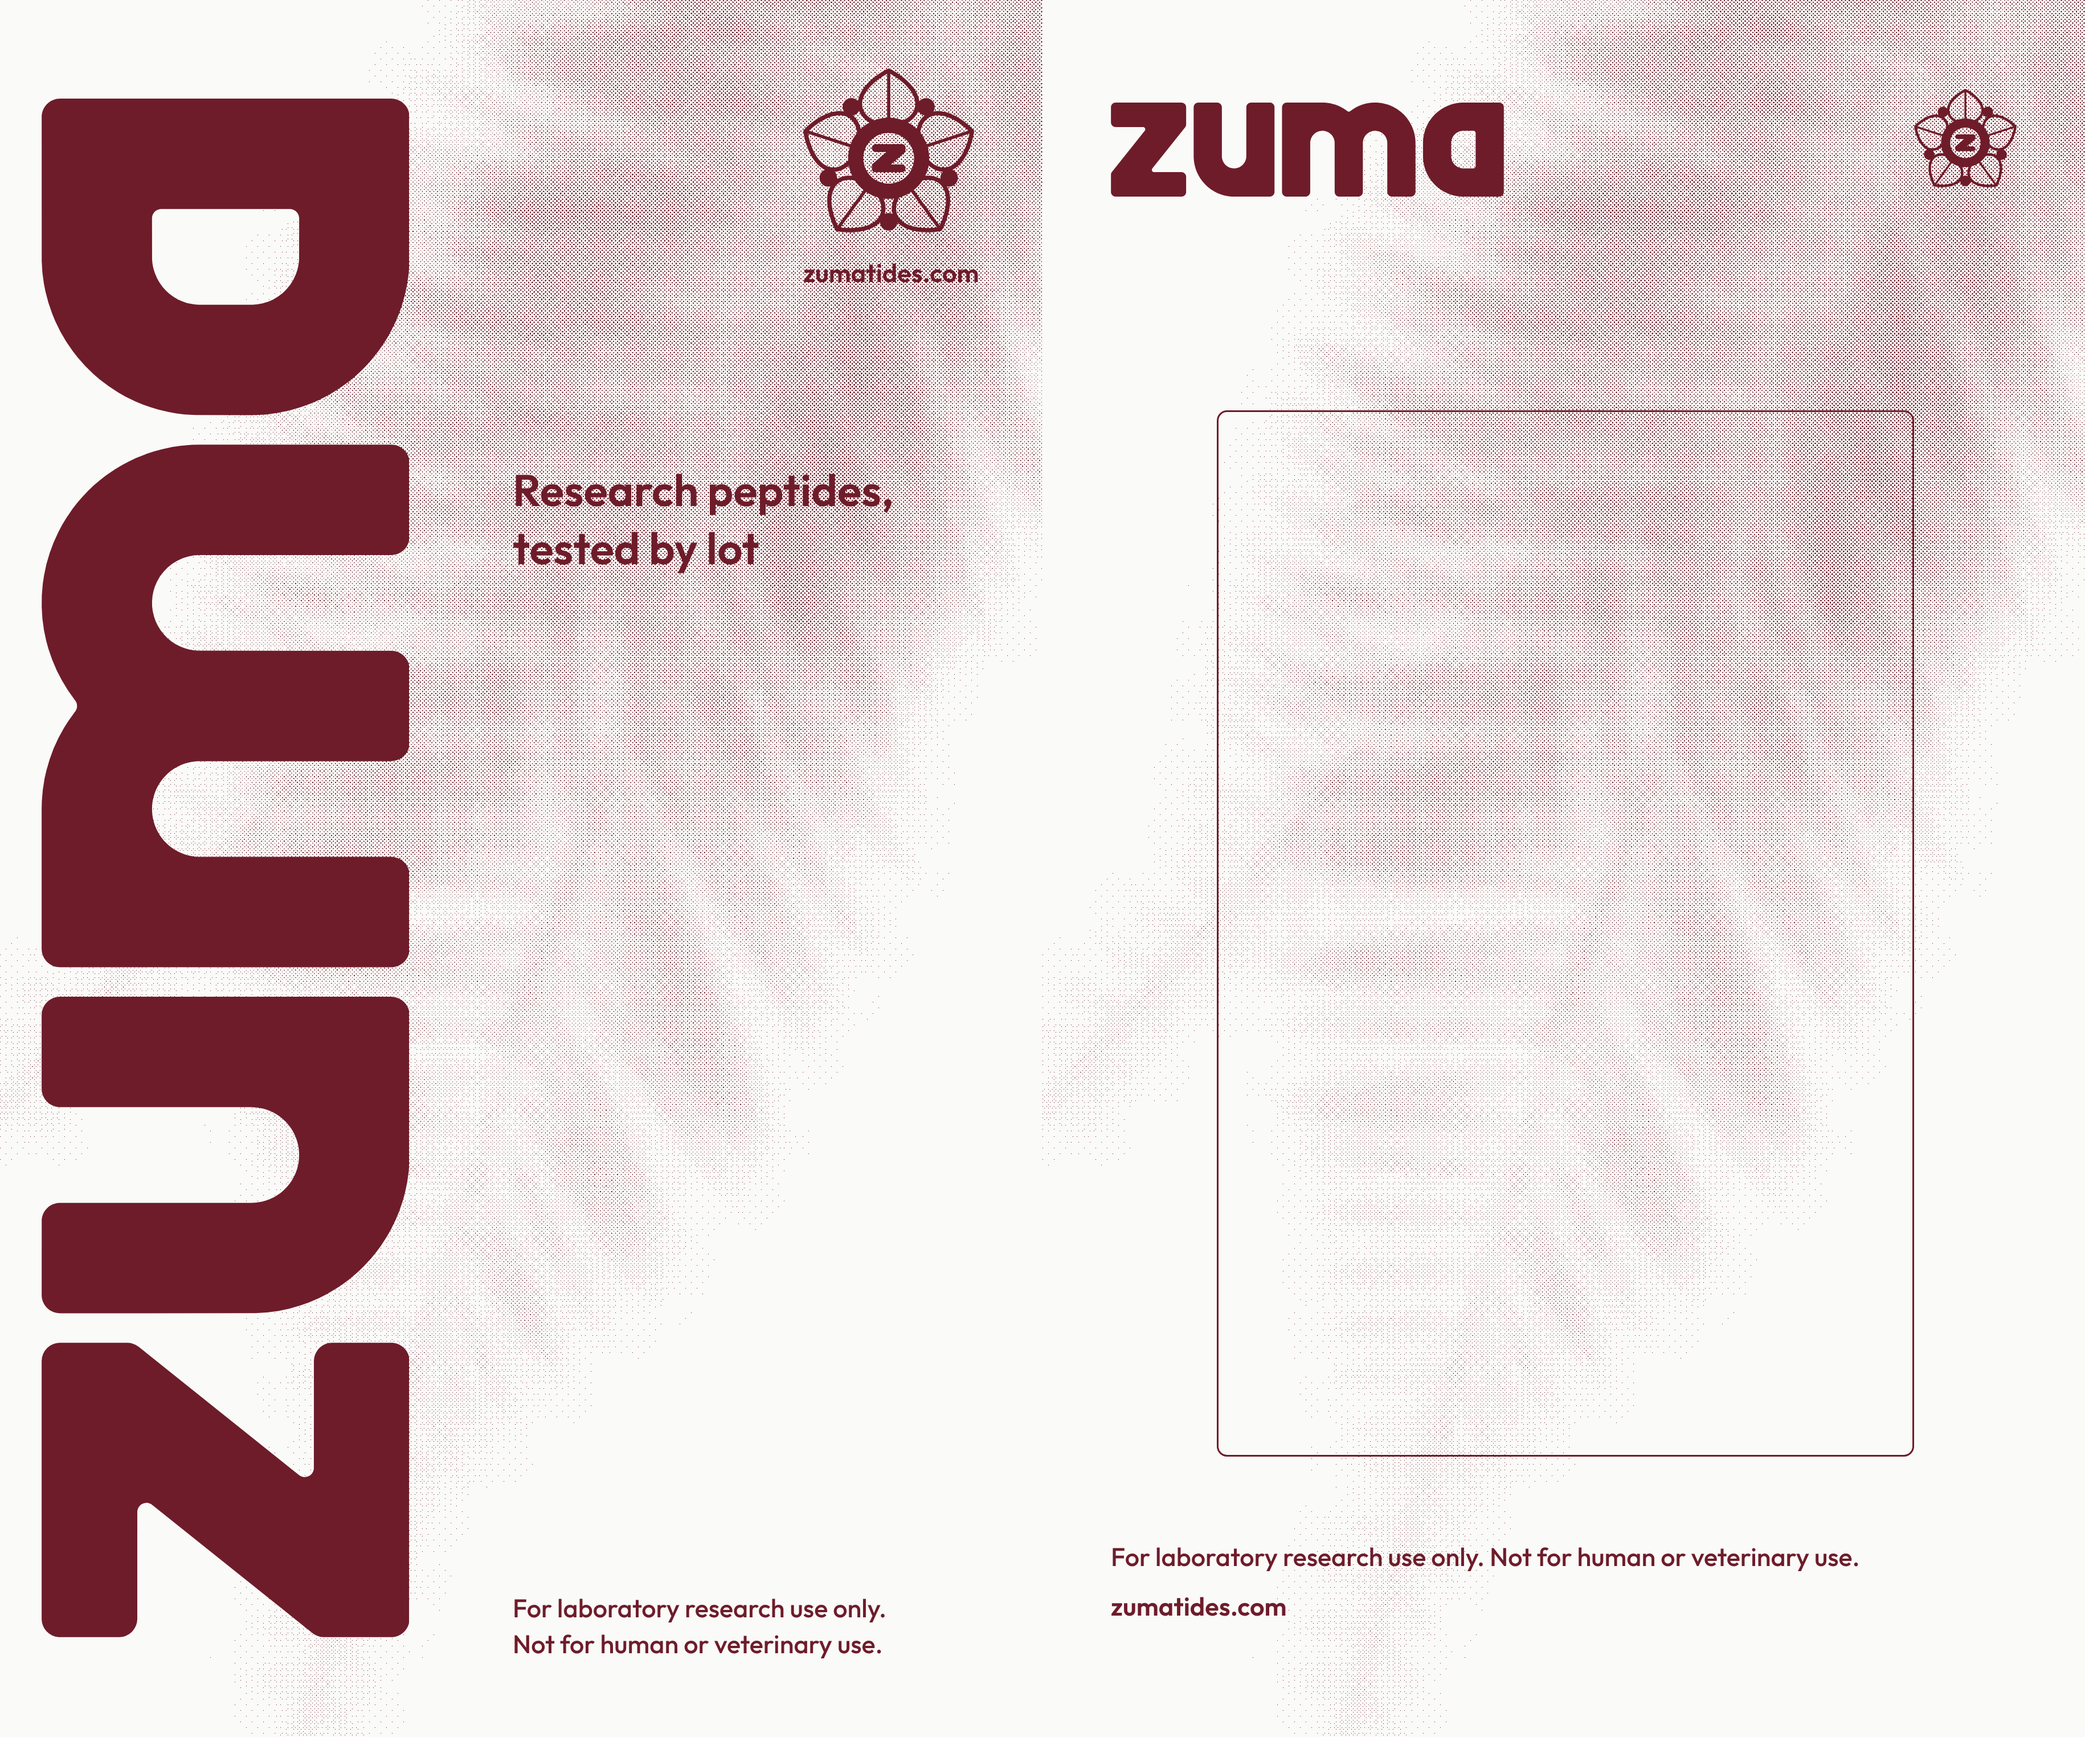
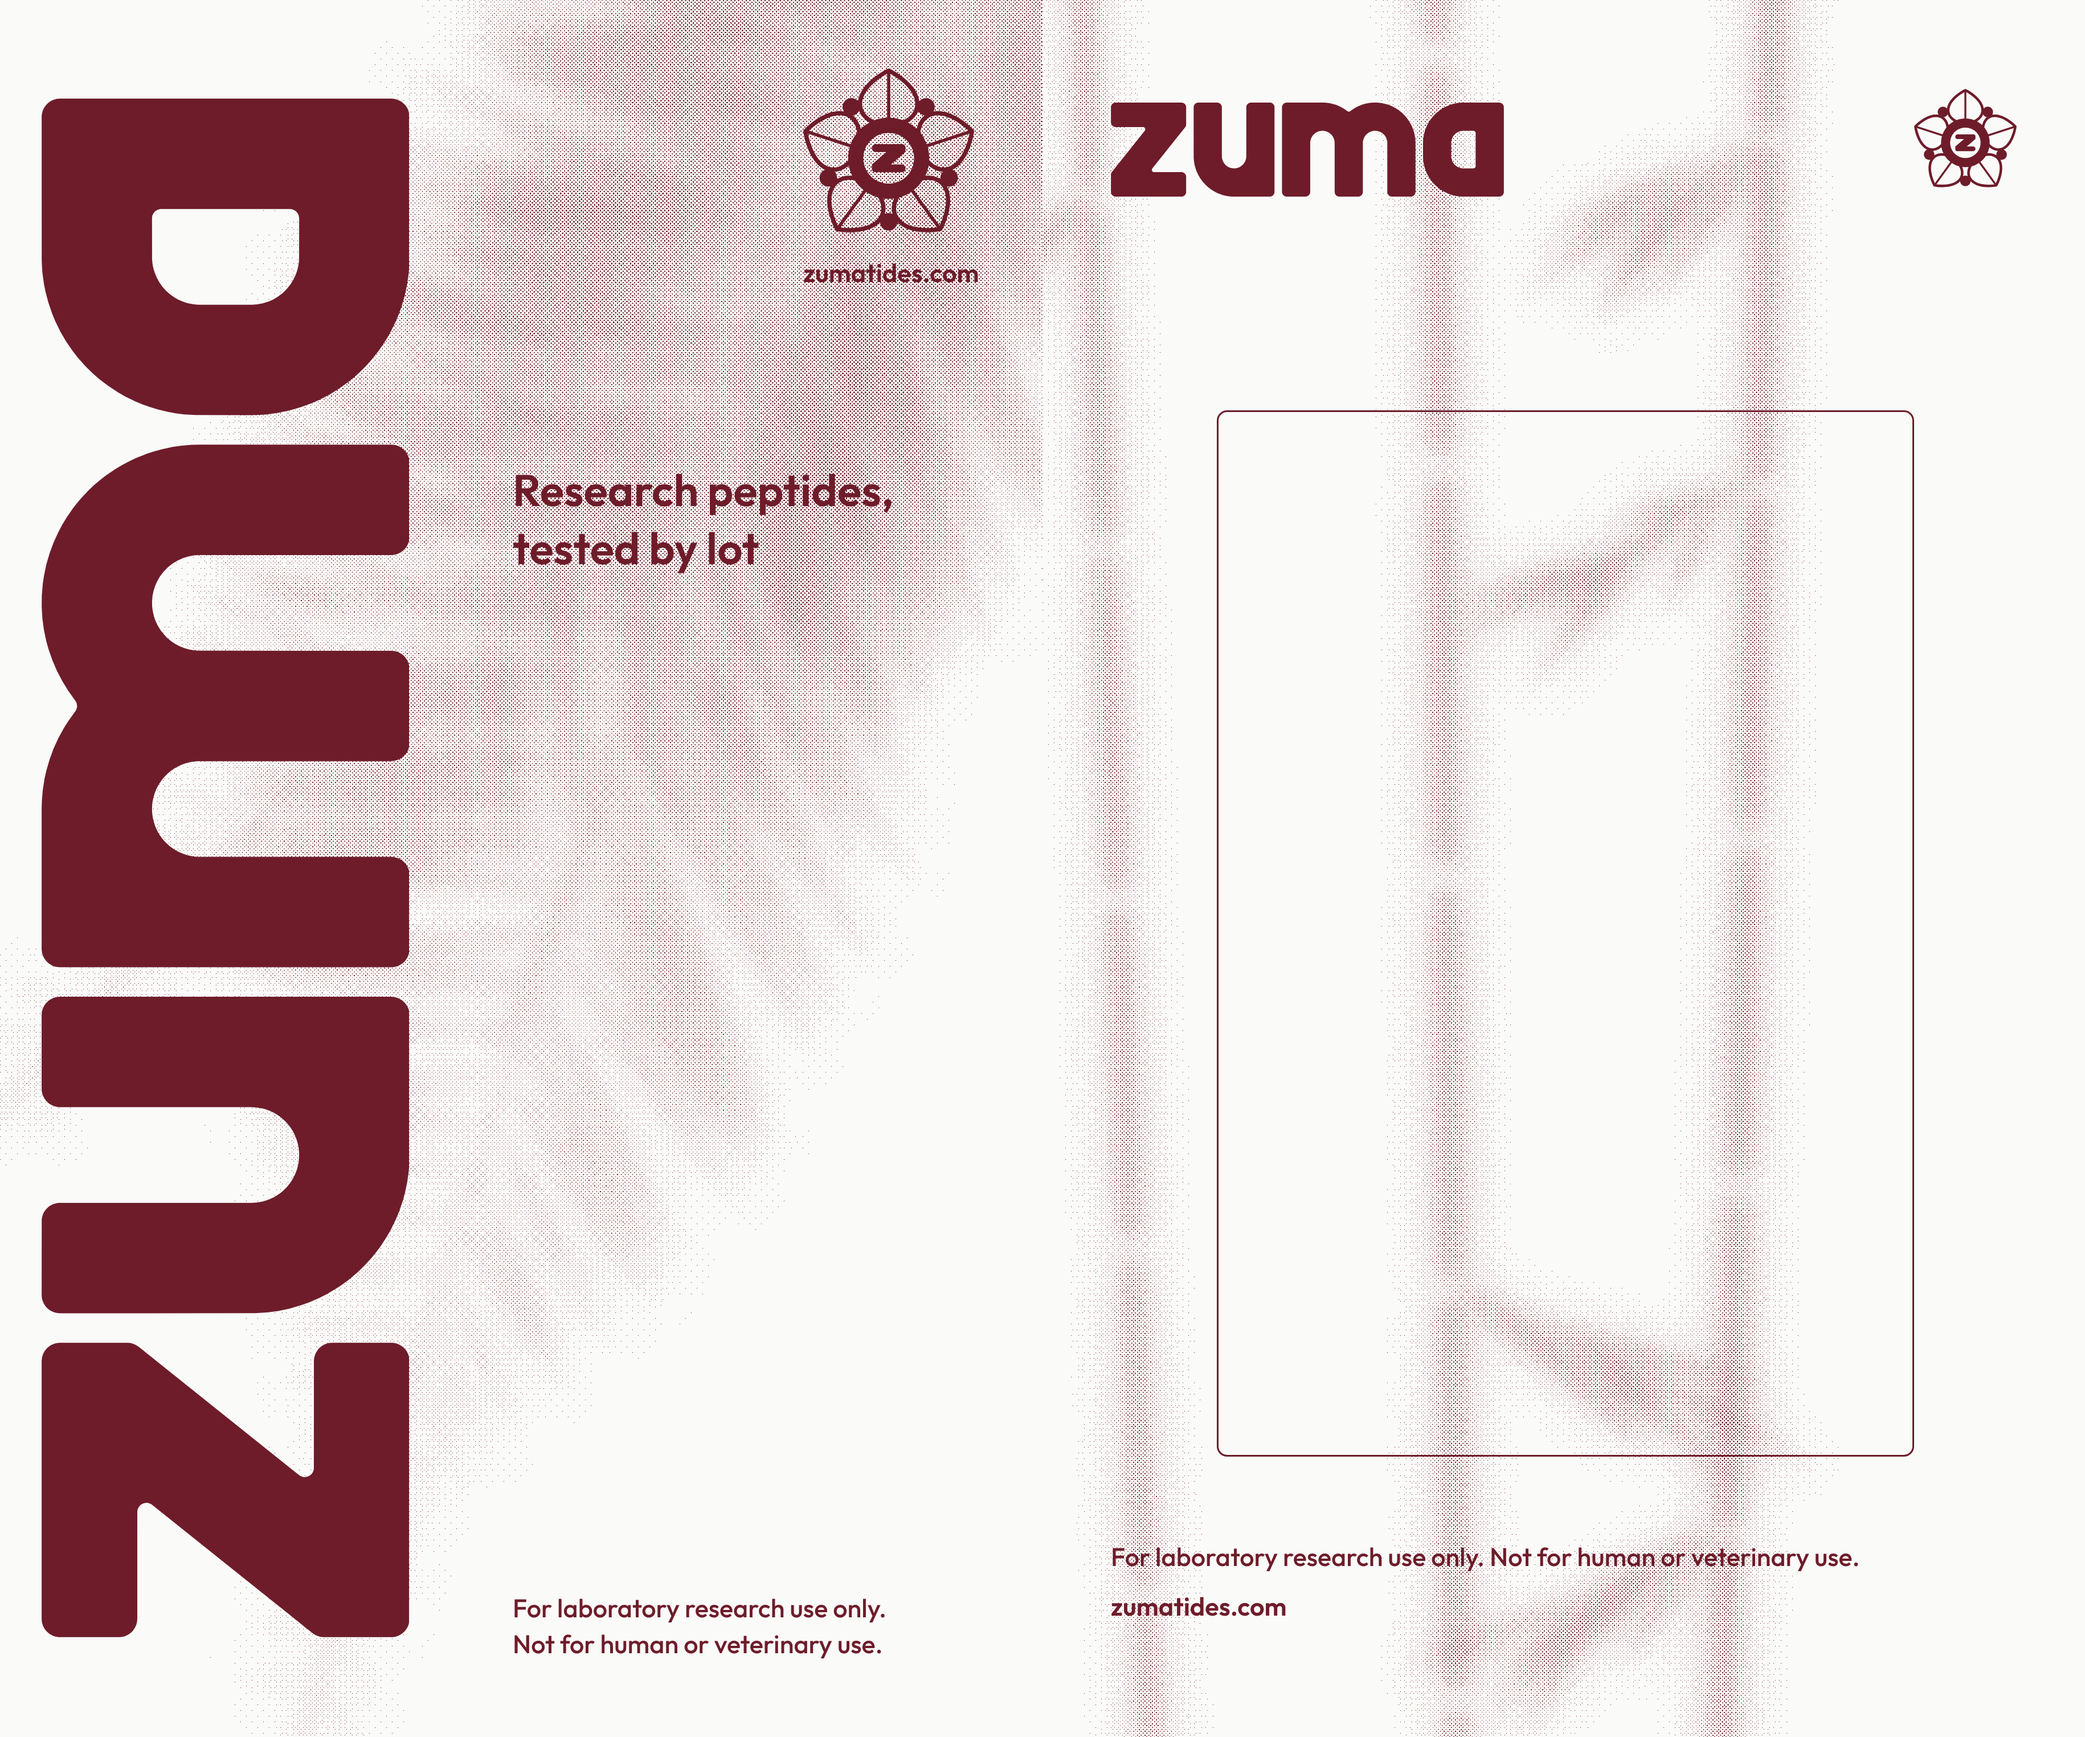
Mailer B: palm shadow on the flap side, bamboo on the label side
Claude-Session: https://claude.ai/code/session_01WtTNMTJadupUSrfLNmJCKv

diff --git a/zuma-content/packaging/mailer-shadow/source/c-bamboo.html b/zuma-content/packaging/mailer-shadow/source/c-bamboo.html
@@ -1,0 +1,2 @@
+<!doctype html><html><head><style>html,body{margin:0;width:1400px;height:2100px}canvas{display:block;width:1400px;height:2100px}</style></head>
+<body><canvas data-lb="supplies" data-seed="8" data-cols="3" data-rows="5" data-bars="0" data-behind="bamboo" data-bseed="7" data-scale="2"></canvas><script src="ombre.js"></script></body></html>

diff --git a/zuma-content/packaging/mailer-shadow/source/compose.py b/zuma-content/packaging/mailer-shadow/source/compose.py
@@ -1,0 +1,27 @@
+# Mailer B: white film, one Oxblood ink. Flap side: the palm shadow; label side: bamboo. Shadows as an AM dot screen (~65 lpi), up to 28%.
+import numpy as np
+from PIL import Image, ImageDraw, ImageFont
+S = '/tmp/claude-0/-home-user-MORELLOSIMS/28fcdcb0-1e78-54f5-bf93-2db9041de387/scratchpad'
+T = Image.open(S + '/mailer/B-type.png').convert('RGBA'); W, H = T.size; fw = W // 2
+G = lambda f: np.array(Image.open(f).convert('L')).astype(float) / 255
+palm = np.clip(G(S + '/vac/backmax-raw.png') / np.maximum(G(S + '/vac/backtiles-raw.png'), 1e-3), 0, 1)
+bamboo = G(S + '/vac/bamboo-shadow.png')
+def crop(sh, w, h, fx, fy):
+    im = Image.fromarray((sh * 255).astype('uint8')); r = max(w / im.width, h / im.height); im = im.resize((int(im.width * r) + 1, int(im.height * r) + 1))
+    x0 = int((im.width - w) * fx); y0 = int((im.height - h) * fy); return np.array(im.crop((x0, y0, x0 + w, y0 + h))).astype(float) / 255
+def halftone(dens, cell=4.7, ang=45):
+    h, w = dens.shape; yy, xx = np.mgrid[0:h, 0:w].astype(float); t = np.radians(ang)
+    u = (xx * np.cos(t) + yy * np.sin(t)) / cell; v = (-xx * np.sin(t) + yy * np.cos(t)) / cell
+    return (np.hypot(u - np.round(u), v - np.round(v)) < np.sqrt(np.clip(dens, 0, 1) / np.pi)).astype(float)
+OX = np.array([0x6E, 0x1C, 0x2A], float); PAPER = np.array([250, 250, 248], float)
+faces = []
+for sh, fx, fy in ((palm, 0.6, 0.3), (bamboo, 0.5, 0.4)):
+    a = 1 - crop(sh, fw, H, fx, fy); a = np.clip(a / a.max(), 0, 1) ** 1.1 * 0.28
+    d = halftone(a); faces.append(PAPER * (1 - d[..., None]) + OX * d[..., None])
+img = Image.fromarray(np.concatenate(faces, 1).astype('uint8')).convert('RGBA'); img.alpha_composite(T); img.convert('RGB').save(S + '/mailer/B-print.png')
+f = ImageFont.truetype(S + '/font/Outfit-600.ttf', 26); sm = lambda im: im.resize((im.width * 900 // im.height, 900))
+z = img.crop((fw + 120, 330, fw + 620, 830)).convert('RGB')
+rgb = img.convert('RGB'); sp = Image.new('RGB', (W + 60, H), '#E7E3DC'); sp.paste(rgb.crop((0, 0, fw, H)), (0, 0)); sp.paste(rgb.crop((fw, 0, W, H)), (fw + 60, 0)); a1 = sm(sp)
+board = Image.new('RGB', (a1.width + 560, 990), '#E7E3DC'); board.paste(a1, (20, 60)); board.paste(z, (a1.width + 40, 60)); dr = ImageDraw.Draw(board)
+dr.text((20, 16), 'Flap side: palm shadow', fill='#6E1C2A', font=f); dr.text((20 + a1.width // 2 + 10, 16), 'Label side: bamboo shadow', fill='#6E1C2A', font=f)
+dr.text((a1.width + 40, 16), 'Close-up, enlarged', fill='#6E1C2A', font=f); board.save(S + '/mailer/B-board2.jpg', quality=90); print('ok')
